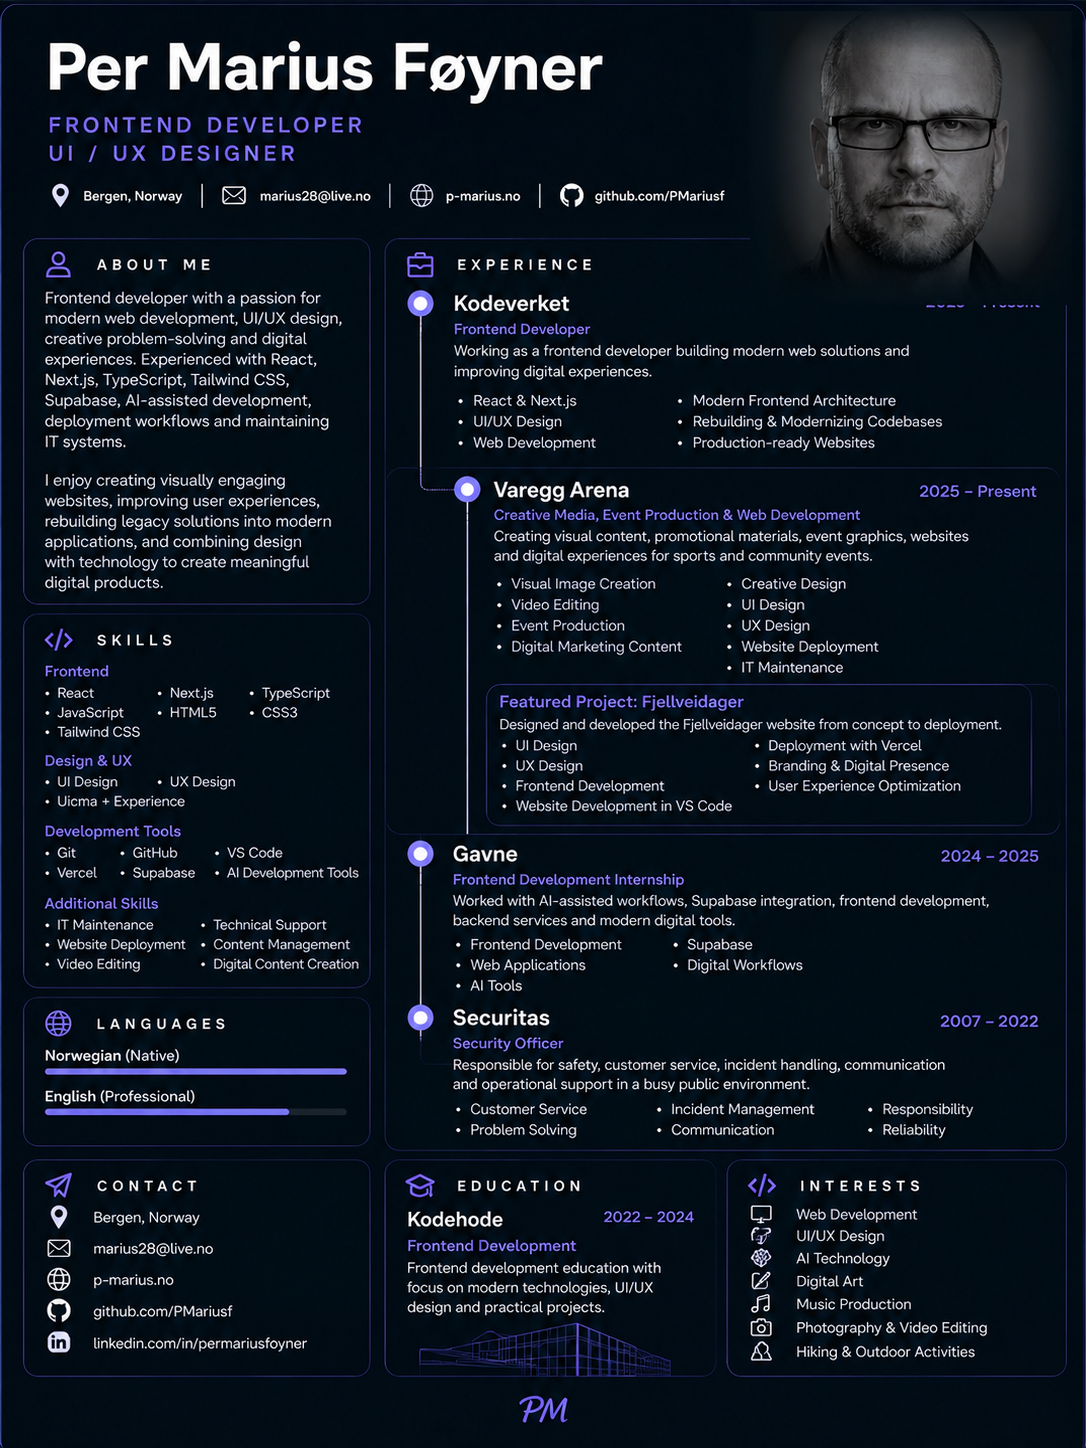
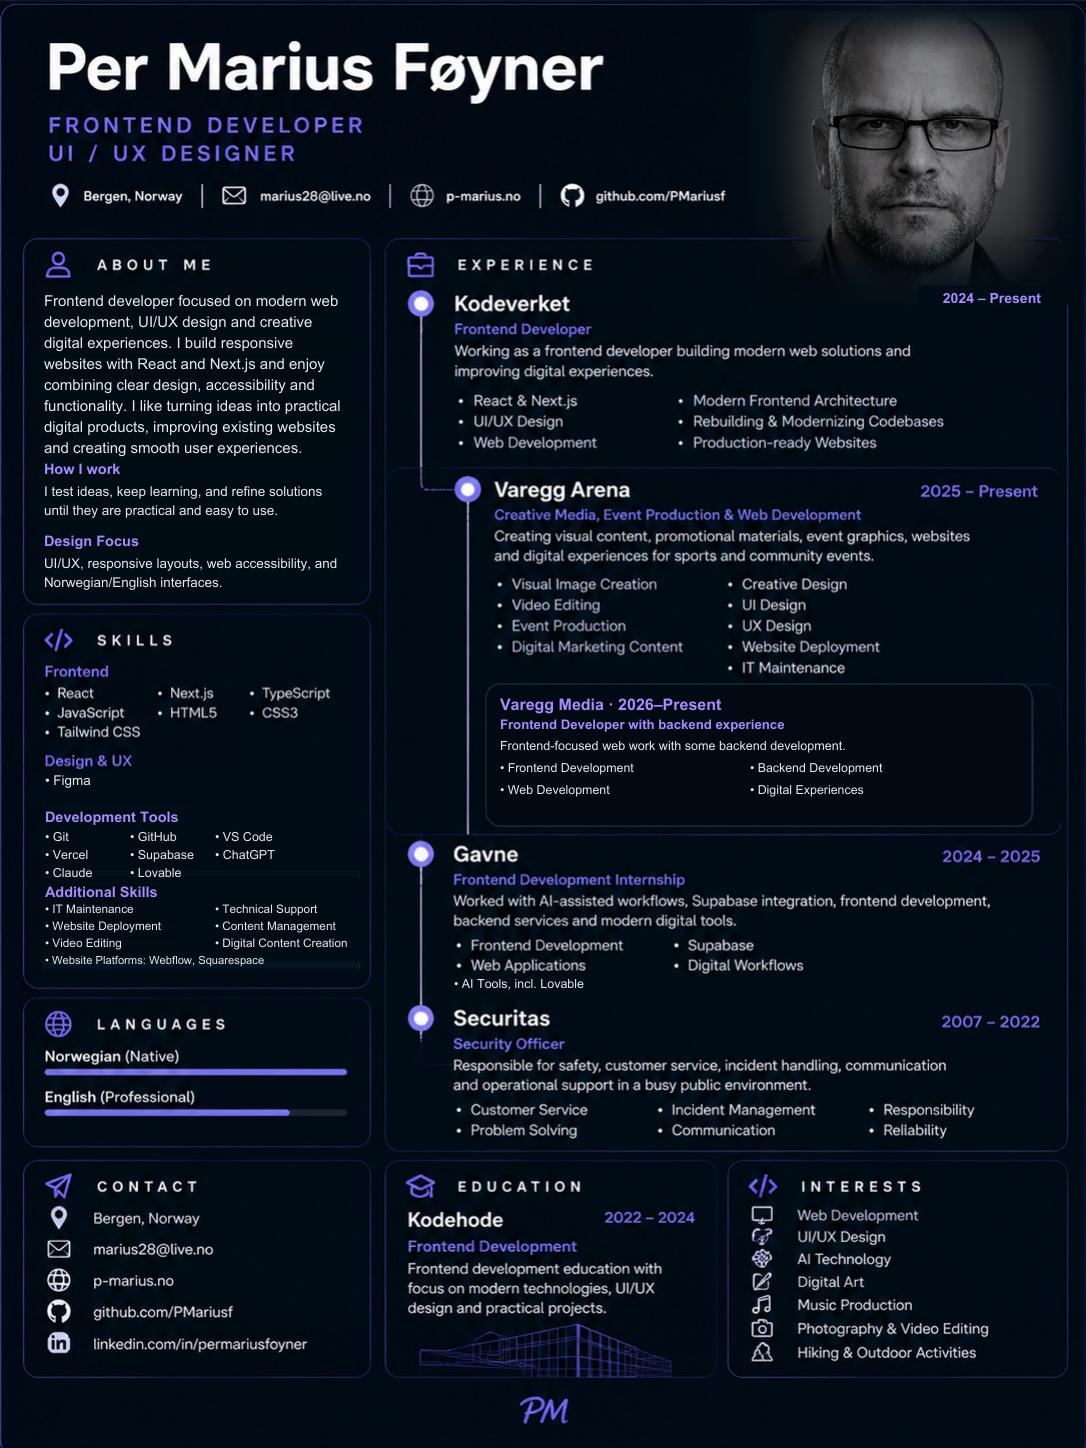
Replace CV PDF iframe with image preview for improved display

diff --git a/src/app/CV/page.tsx b/src/app/CV/page.tsx
@@ -1,12 +1,13 @@
 "use client";
 
 import { useState } from "react";
+import Image from "next/image";
 import Navbar from "../../../components/Navbar";
 import Contact from "../../../components/Contact";
 import { useLanguage } from "../../../components/LanguageProvider";
 
-const cvFile = "/cv/Per_Marius_Foyner_CV.pdf";
-const cvPreviewFile = `${cvFile}?v=20260910`;
+const cvFile = "/cv/Per_Marius_CV.pdf";
+const cvPreviewFile = "/cv/PM-CV.png";
 
 const skills = [
   "HTML",
@@ -183,8 +184,15 @@ export default function CV() {
             </button>
           </div>
 
-          <div className="h-[calc(100vh-80px)] p-3 md:p-5">
-            <iframe src={cvPreviewFile} title="Per Marius Føyner CV preview" className="h-full w-full rounded-2xl border border-white/10 bg-white" />
+          <div className="h-[calc(100vh-80px)] overflow-y-auto p-3 md:p-5">
+            <Image
+              src={cvPreviewFile}
+              alt="Per Marius Føyner CV"
+              width={1086}
+              height={1448}
+              unoptimized
+              className="mx-auto h-auto w-full rounded-2xl border border-white/10"
+            />
           </div>
         </aside>
       </div>
